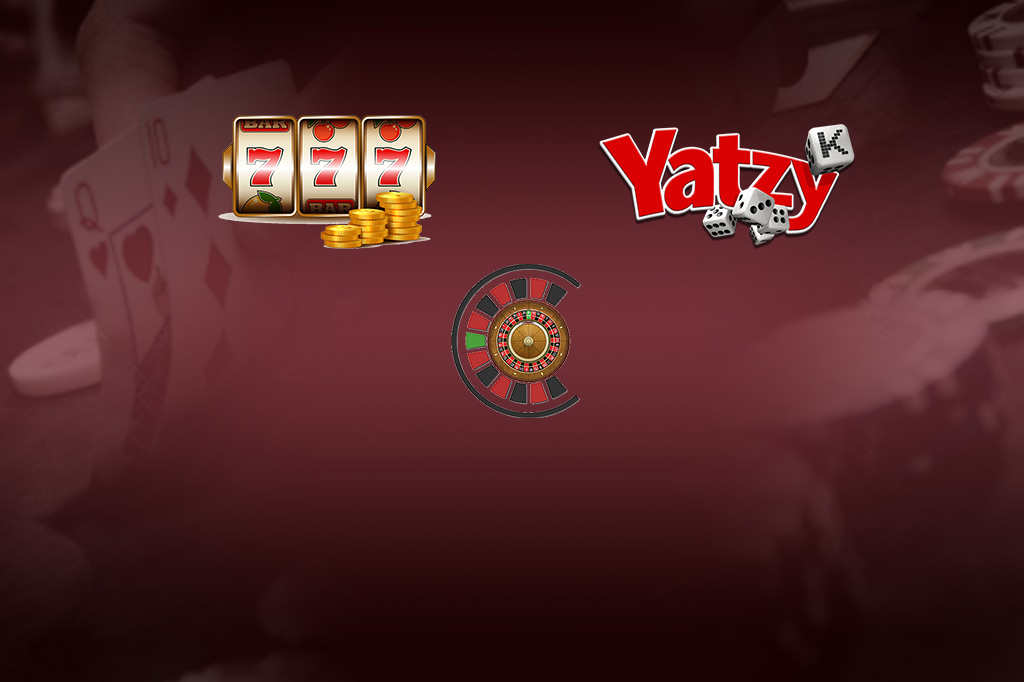
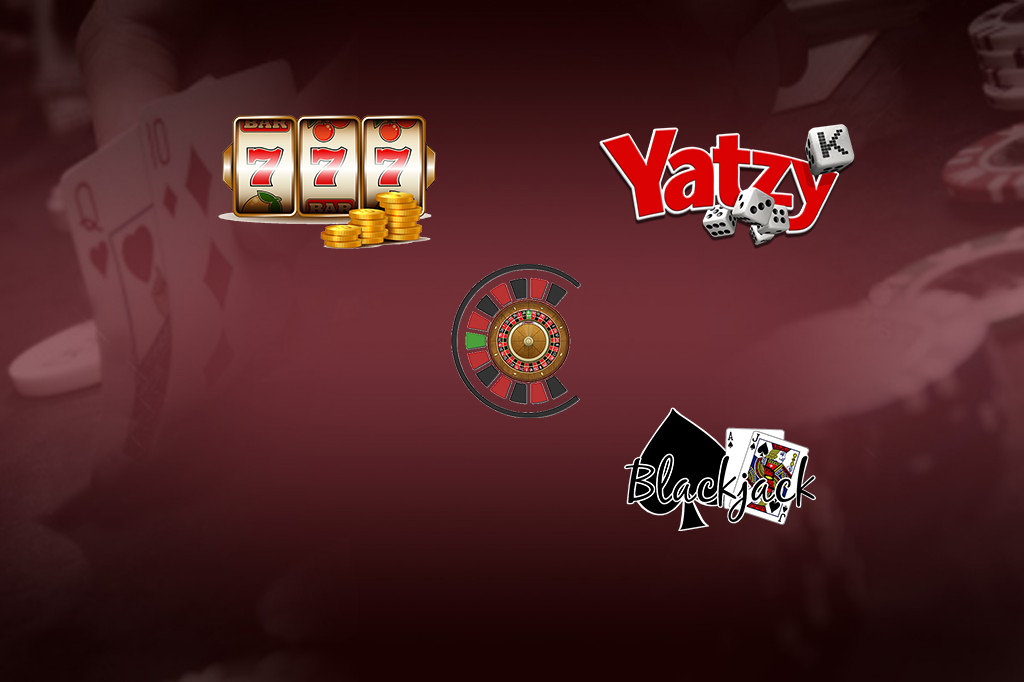
Alles verbunden miteinadnder ein Bild fehlt

Changed region(s): [[0.5938, 0.585, 0.8125, 0.8006]]

diff --git a/src/ch/bbbaden/casino/mainmenu/MainMenu.css b/src/ch/bbbaden/casino/mainmenu/MainMenu.css
@@ -4,7 +4,7 @@ To change this template file, choose Tools | Templates
 and open the template in the editor.
 */
 /* 
-    Created on : 02.04.2020, 14:37:34
+    Created on : 03.04.2020, 13:20:32
     Author     : misch
 */
 
@@ -14,9 +14,6 @@ and open the template in the editor.
 .colorBtn{
     -fx-background-color: rgb(234, 215, 7);
 }
-.hilfeBtn{
-    -fx-background-color: rgb(0, 200, 255);
-}
-.menuBtn{
+.logoutBtn{
     -fx-background-color: rgb(255, 0, 42);
 }

diff --git a/src/ch/bbbaden/casino/mainmenu/MainMenuController.java b/src/ch/bbbaden/casino/mainmenu/MainMenuController.java
@@ -7,8 +7,10 @@ package ch.bbbaden.casino.mainmenu;
 
 import java.net.URL;
 import java.util.ResourceBundle;
+import javafx.event.ActionEvent;
 import javafx.fxml.FXML;
 import javafx.fxml.Initializable;
+import javafx.scene.control.Button;
 import javafx.scene.control.Label;
 import javafx.scene.input.MouseEvent;
 
@@ -23,6 +25,16 @@ public class MainMenuController implements Initializable {
     private Label pokerLbl;
     @FXML
     private Label rouletteLbl;
+    @FXML
+    private Button logoutBtn;
+    @FXML
+    private Button kasseBtn;
+    @FXML
+    private Label slotsLbl;
+    @FXML
+    private Label yatziLbl;
+    @FXML
+    private Label blackjackLbl;
     /**
      * Initializes the controller class.
      */
@@ -45,6 +57,26 @@ public class MainMenuController implements Initializable {
 
     @FXML
     private void rouletteAction(MouseEvent event) {
+    }
+
+    @FXML
+    private void logoutAction(ActionEvent event) {
+    }
+
+    @FXML
+    private void kasseAction(ActionEvent event) {
+    }
+
+    @FXML
+    private void slotsAction(MouseEvent event) {
+    }
+
+    @FXML
+    private void yatziAction(MouseEvent event) {
+    }
+
+    @FXML
+    private void blackjackAction(MouseEvent event) {
     }
      
 }

diff --git a/src/ch/bbbaden/casino/videopoker/VideoPokerGameController.java b/src/ch/bbbaden/casino/videopoker/VideoPokerGameController.java
@@ -78,7 +78,7 @@ public class VideoPokerGameController implements Initializable {
 
     @FXML
     private void menuAction(ActionEvent event) {
-        System.exit(0);
+        vm.goToMenu();
     }
     public void setViewModel(VideoPokerGameViewModel vm){
         this.vm = vm;
@@ -185,7 +185,10 @@ public class VideoPokerGameController implements Initializable {
     }
      @FXML
     private void hilfeAction(ActionEvent event) {
-        vm.hilfe();
+        if(ersteRunde==true && gambleMode== false || ersteRunde==true &&winTxtLbl.getText().equals("Du hast verloren") ){
+            vm.hilfe();
+        }
+        
     }
     public void cards(){
         Card karte1 = vm.getCard(0);

diff --git a/src/ch/bbbaden/casino/MainApp.java b/src/ch/bbbaden/casino/MainApp.java
@@ -29,7 +29,7 @@ public class MainApp extends Application {
     public void start(Stage stage) throws Exception {
 
         this.stage = stage;
-         stage.initStyle(StageStyle.UNDECORATED);
+        stage.initStyle(StageStyle.UNDECORATED);
         showMainMenu();
 
     }

diff --git a/src/ch/bbbaden/casino/videopoker/VideoPokerGameViewModel.java b/src/ch/bbbaden/casino/videopoker/VideoPokerGameViewModel.java
@@ -97,5 +97,7 @@ public class VideoPokerGameViewModel implements PropertyChangeListener{
     public void hilfe(){
         mainApp.showVideoPokerHilfe();
     }
-    
+    public void goToMenu(){
+        mainApp.showMainMenu();
+    }
 }

diff --git a/src/ch/bbbaden/casino/videopoker/VideoPokerMenuViewModel.java b/src/ch/bbbaden/casino/videopoker/VideoPokerMenuViewModel.java
@@ -28,5 +28,7 @@ public class VideoPokerMenuViewModel {
     public void setMainApp(MainApp mainApp) {
         this.mainApp = mainApp;
     }
-    
+    public void goToMenu(){
+        mainApp.showMainMenu();
+    }
 }

diff --git a/src/ch/bbbaden/casino/videopoker/VideoPokerMenuController.java b/src/ch/bbbaden/casino/videopoker/VideoPokerMenuController.java
@@ -40,7 +40,7 @@ public class VideoPokerMenuController implements Initializable {
 
     @FXML
     private void menuAction(ActionEvent event) {
-        System.exit(0);
+        vm.goToMenu();
        
     }
     
